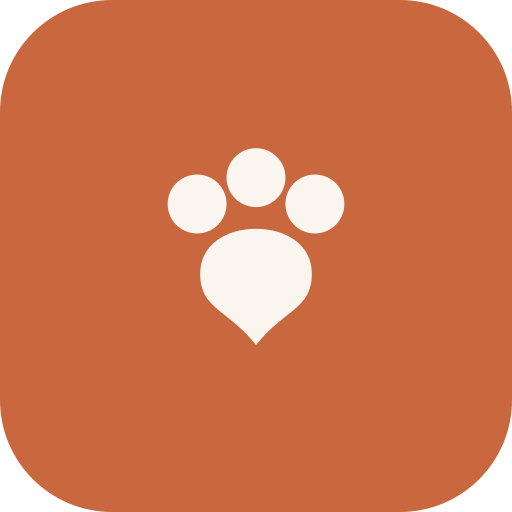
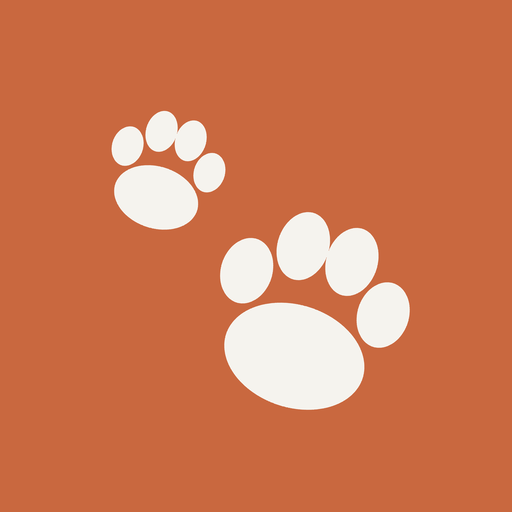
Icono de PawPals con las dos patitas en toda la app, reporte de errores del editor y ajustes visuales

diff --git a/frontend/src/ErrorBoundary.jsx b/frontend/src/ErrorBoundary.jsx
@@ -1,5 +1,33 @@
 import { Component } from 'react';
 import { IconClose } from './Icons';
+import { API_BASE } from './api';
+
+// Mandamos el error real al backend para que quede en los logs de Render —
+// así, la próxima vez que algo falle en el teléfono de alguien (donde no
+// tenemos forma de abrir la consola del navegador), igual podemos ver el
+// mensaje y el stack exactos en vez de adivinar a ciegas. Es "mejor
+// esfuerzo": si el pedido en sí falla (sin internet, etc.) no hacemos nada
+// más, total ya se mostró el cartel de error en pantalla.
+function reportClientError(error, errorInfo, label) {
+  try {
+    const payload = {
+      label: label || null,
+      message: String(error?.message || error),
+      stack: error?.stack || null,
+      componentStack: errorInfo?.componentStack || null,
+      userAgent: navigator.userAgent,
+      url: window.location.href
+    };
+    fetch(`${API_BASE}/api/client-errors`, {
+      method: 'POST',
+      headers: { 'Content-Type': 'application/json' },
+      body: JSON.stringify(payload),
+      keepalive: true
+    }).catch(() => {});
+  } catch {
+    /* noop — nunca queremos que el reporte de errores cause otro error */
+  }
+}
 
 // Red de seguridad: si algo dentro (por ejemplo el editor de historias/reels)
 // tira un error inesperado, React por defecto "desmonta" toda la app y deja
@@ -19,9 +47,10 @@ export default class ErrorBoundary extends Component {
     return { hasError: true };
   }
 
-  componentDidCatch(error) {
+  componentDidCatch(error, errorInfo) {
     // eslint-disable-next-line no-console
     console.error('ErrorBoundary atrapó un error:', error);
+    reportClientError(error, errorInfo, this.props.label);
   }
 
   handleClose = () => {

diff --git a/frontend/src/Icons.jsx b/frontend/src/Icons.jsx
@@ -197,6 +197,31 @@ export function IconLocation({ size = 18 }) {
   );
 }
 
+// Dos huellitas (como el emoji 🐾, pero dibujado a mano) — es "el ícono de
+// PawPals" que se usa junto al nombre de la app en el header y en la
+// pantalla de inicio de sesión. Reemplaza al de una sola huella (IconPawSmall,
+// que queda para otros usos) porque a la gente le gustaba más el de dos.
+export function IconPawPair({ size = 22 }) {
+  return (
+    <svg viewBox="0 0 24 24" width={size} height={size} fill="currentColor" stroke="none" aria-hidden="true">
+      <g transform="translate(14,15) rotate(-18) scale(12)">
+        <ellipse cx="0" cy="0.16" rx="0.28" ry="0.20" />
+        <ellipse cx="-0.28" cy="-0.10" rx="0.10" ry="0.13" />
+        <ellipse cx="-0.10" cy="-0.26" rx="0.10" ry="0.135" />
+        <ellipse cx="0.10" cy="-0.26" rx="0.10" ry="0.135" />
+        <ellipse cx="0.28" cy="-0.10" rx="0.10" ry="0.13" />
+      </g>
+      <g transform="translate(7,7) rotate(-18) scale(7.2)">
+        <ellipse cx="0" cy="0.16" rx="0.28" ry="0.20" />
+        <ellipse cx="-0.28" cy="-0.10" rx="0.10" ry="0.13" />
+        <ellipse cx="-0.10" cy="-0.26" rx="0.10" ry="0.135" />
+        <ellipse cx="0.10" cy="-0.26" rx="0.10" ry="0.135" />
+        <ellipse cx="0.28" cy="-0.10" rx="0.10" ry="0.13" />
+      </g>
+    </svg>
+  );
+}
+
 export function IconPawSmall({ size = 22 }) {
   return (
     <svg {...COMMON} width={size} height={size} fill="currentColor" stroke="none" aria-hidden="true">

diff --git a/backend/src/index.js b/backend/src/index.js
@@ -180,6 +180,26 @@ function isFollowing(followerPetId, followedPetId) {
     .get(followerPetId, followedPetId);
 }
 
+// Reportes de errores atrapados por ErrorBoundary en el frontend (ver
+// ErrorBoundary.jsx) — sin esto, un error que sólo pasa en el teléfono de
+// alguien es imposible de diagnosticar porque no hay forma de abrir la
+// consola del navegador ahí. Se ve en la pestaña "Logs" de Render, buscando
+// "[CLIENT ERROR]". Sin autenticación a propósito: un error puede pasar
+// incluso con la sesión vencida, y no queremos perder ese reporte por eso.
+app.post('/api/client-errors', (req, res) => {
+  const { label, message, stack, componentStack, userAgent, url } = req.body || {};
+  console.error('[CLIENT ERROR]', JSON.stringify({
+    label: label ? String(label).slice(0, 100) : null,
+    message: message ? String(message).slice(0, 500) : null,
+    stack: stack ? String(stack).slice(0, 3000) : null,
+    componentStack: componentStack ? String(componentStack).slice(0, 3000) : null,
+    userAgent: userAgent ? String(userAgent).slice(0, 300) : null,
+    url: url ? String(url).slice(0, 300) : null,
+    at: new Date().toISOString()
+  }));
+  res.json({ ok: true });
+});
+
 // ---------- AUTH ----------
 
 app.post('/api/auth/register', (req, res) => {

diff --git a/frontend/src/App.css b/frontend/src/App.css
@@ -124,6 +124,9 @@ main{
   font-size:22px;
   font-weight:800;
   margin-bottom:2px;
+  display:flex;
+  align-items:center;
+  gap:6px;
 }
 .auth-sub{
   font-size:13px;
@@ -1703,15 +1706,11 @@ main.no-pad{ padding:0; }
   padding:4px 6px;
   border-radius:6px;
 }
-/* Al texto seleccionado sí le dejamos un borde punteado (ayuda a ver dónde
-   termina la caja de texto). A un sticker (un emoji) un recuadro se ve raro
-   — en cambio le damos un resplandor suave y circular, más acorde a su
-   forma, para que se note que está seleccionado sin la "caja". */
-.editor-overlay-item.overlay-text.selected{
-  outline:2px dashed rgba(255,255,255,0.85);
-  outline-offset:2px;
-  border-radius:6px;
-}
+/* Ni al texto ni al sticker seleccionado les dejamos un recuadro/borde
+   punteado (a pedido: se veía raro en los dos casos) — en cambio, un
+   resplandor suave detrás de la forma real, para que se note qué está
+   seleccionado sin agregar una "caja" artificial alrededor. */
+.editor-overlay-item.overlay-text.selected,
 .editor-overlay-item.overlay-sticker.selected{
   text-shadow:
     0 0 8px rgba(255,255,255,0.9),

diff --git a/frontend/src/StoriesRow.jsx b/frontend/src/StoriesRow.jsx
@@ -316,7 +316,7 @@ export default function StoriesRow({ showToast }) {
       )}
 
       {cropFile && (
-        <ErrorBoundary onReset={() => setCropFile(null)}>
+        <ErrorBoundary onReset={() => setCropFile(null)} label="story-cropper">
           <ImageCropper
             file={cropFile}
             aspect={9 / 16}
@@ -328,7 +328,7 @@ export default function StoriesRow({ showToast }) {
       )}
 
       {editFile && (
-        <ErrorBoundary onReset={closeEditor} message="No pudimos abrir el editor de texto/stickers. Cerrá e intentá de nuevo — podés seguir usando la app mientras tanto.">
+        <ErrorBoundary onReset={closeEditor} label="story-editor" message="No pudimos abrir el editor de texto/stickers. Cerrá e intentá de nuevo — podés seguir usando la app mientras tanto.">
           <MediaEditor
             mediaUrl={editUrl}
             mediaType={editFile.type.startsWith('video/') ? 'video' : 'image'}

diff --git a/frontend/src/App.jsx b/frontend/src/App.jsx
@@ -12,7 +12,7 @@ import RequestsView from './RequestsView';
 import NotificationsView from './NotificationsView';
 import MessagesView from './MessagesView';
 import { IconHome, IconReels, IconRequests, IconNearby, IconBell, IconProfile, IconMessages } from './NavIcons';
-import { IconSearch, IconClose, IconPawSmall } from './Icons';
+import { IconSearch, IconClose, IconPawPair } from './Icons';
 
 // Barra inferior estilo Facebook: Feed, Reels, Solicitudes (citas de juego
 // pendientes de aceptar/rechazar), Cerca de ti (ocupa el lugar que en
@@ -184,7 +184,7 @@ function App() {
           />
         ) : (
           <button type="button" className="logo logo-btn" onClick={goHome} title="Ir al inicio">
-            <IconPawSmall size={20} /> PawPals
+            <IconPawPair size={20} /> PawPals
           </button>
         )}
         {searchableTab && (

diff --git a/frontend/src/AuthView.jsx b/frontend/src/AuthView.jsx
@@ -2,6 +2,7 @@ import { useState } from 'react';
 import { api } from './api';
 import PetIllustration, { SPECIES_LIST } from './PetIllustration';
 import LegalModal from './LegalModal';
+import { IconPawPair } from './Icons';
 
 // Pide la ubicación real del dispositivo — es lo que dispara el permiso
 // nativo de ubicación la primera vez. Nunca rechaza la promesa: si la
@@ -79,7 +80,7 @@ export default function AuthView({ onAuthenticated }) {
   return (
     <div className="auth-wrap">
       <div className="auth-card">
-        <div className="auth-title">🐾 PawPals</div>
+        <div className="auth-title"><IconPawPair size={22} /> PawPals</div>
         <div className="auth-sub">
           {mode === 'login' ? 'Entra a tu cuenta' : 'Crea tu cuenta y el perfil de tu mascota'}
         </div>

diff --git a/frontend/src/ReelsView.jsx b/frontend/src/ReelsView.jsx
@@ -258,7 +258,7 @@ export default function ReelsView({ showToast, onViewPet }) {
       )}
 
       {editorOpen && videoUrl && (
-        <ErrorBoundary onReset={() => setEditorOpen(false)} message="No pudimos abrir el editor de texto/stickers. Cerrá e intentá de nuevo — podés seguir usando la app mientras tanto.">
+        <ErrorBoundary onReset={() => setEditorOpen(false)} label="reel-editor" message="No pudimos abrir el editor de texto/stickers. Cerrá e intentá de nuevo — podés seguir usando la app mientras tanto.">
           <MediaEditor
             mediaUrl={videoUrl}
             mediaType="video"

diff --git a/frontend/src/ProfileView.jsx b/frontend/src/ProfileView.jsx
@@ -123,7 +123,7 @@ export default function ProfileView({ onLogout, showToast, onViewPet }) {
       <button className="logout-btn" onClick={handleLogout}>Cerrar sesión</button>
 
       {cropFile && (
-        <ErrorBoundary onReset={() => setCropFile(null)}>
+        <ErrorBoundary onReset={() => setCropFile(null)} label="profile-cropper">
           <ImageCropper
             file={cropFile}
             aspect={1}

diff --git a/frontend/src/FeedView.jsx b/frontend/src/FeedView.jsx
@@ -299,7 +299,7 @@ export default function FeedView({ showToast, searchQuery = '', onViewPet, scrol
       )}
 
       {cropFile && (
-        <ErrorBoundary onReset={() => setCropFile(null)}>
+        <ErrorBoundary onReset={() => setCropFile(null)} label="feed-cropper">
           <ImageCropper
             file={cropFile}
             aspect={4 / 3}

diff --git a/frontend/src/api.js b/frontend/src/api.js
@@ -1,4 +1,4 @@
-const API_BASE = import.meta.env.VITE_API_BASE || 'http://localhost:4000';
+export const API_BASE = import.meta.env.VITE_API_BASE || 'http://localhost:4000';
 const TOKEN_KEY = 'pawpals_token';
 
 // Guardamos la sesión como un token (no como cookie): cuando el frontend y

diff --git a/frontend/src/main.jsx b/frontend/src/main.jsx
@@ -29,7 +29,7 @@ document.addEventListener(
 
 createRoot(document.getElementById('root')).render(
   <StrictMode>
-    <ErrorBoundary fatal>
+    <ErrorBoundary fatal label="app-root">
       <App />
     </ErrorBoundary>
   </StrictMode>,
